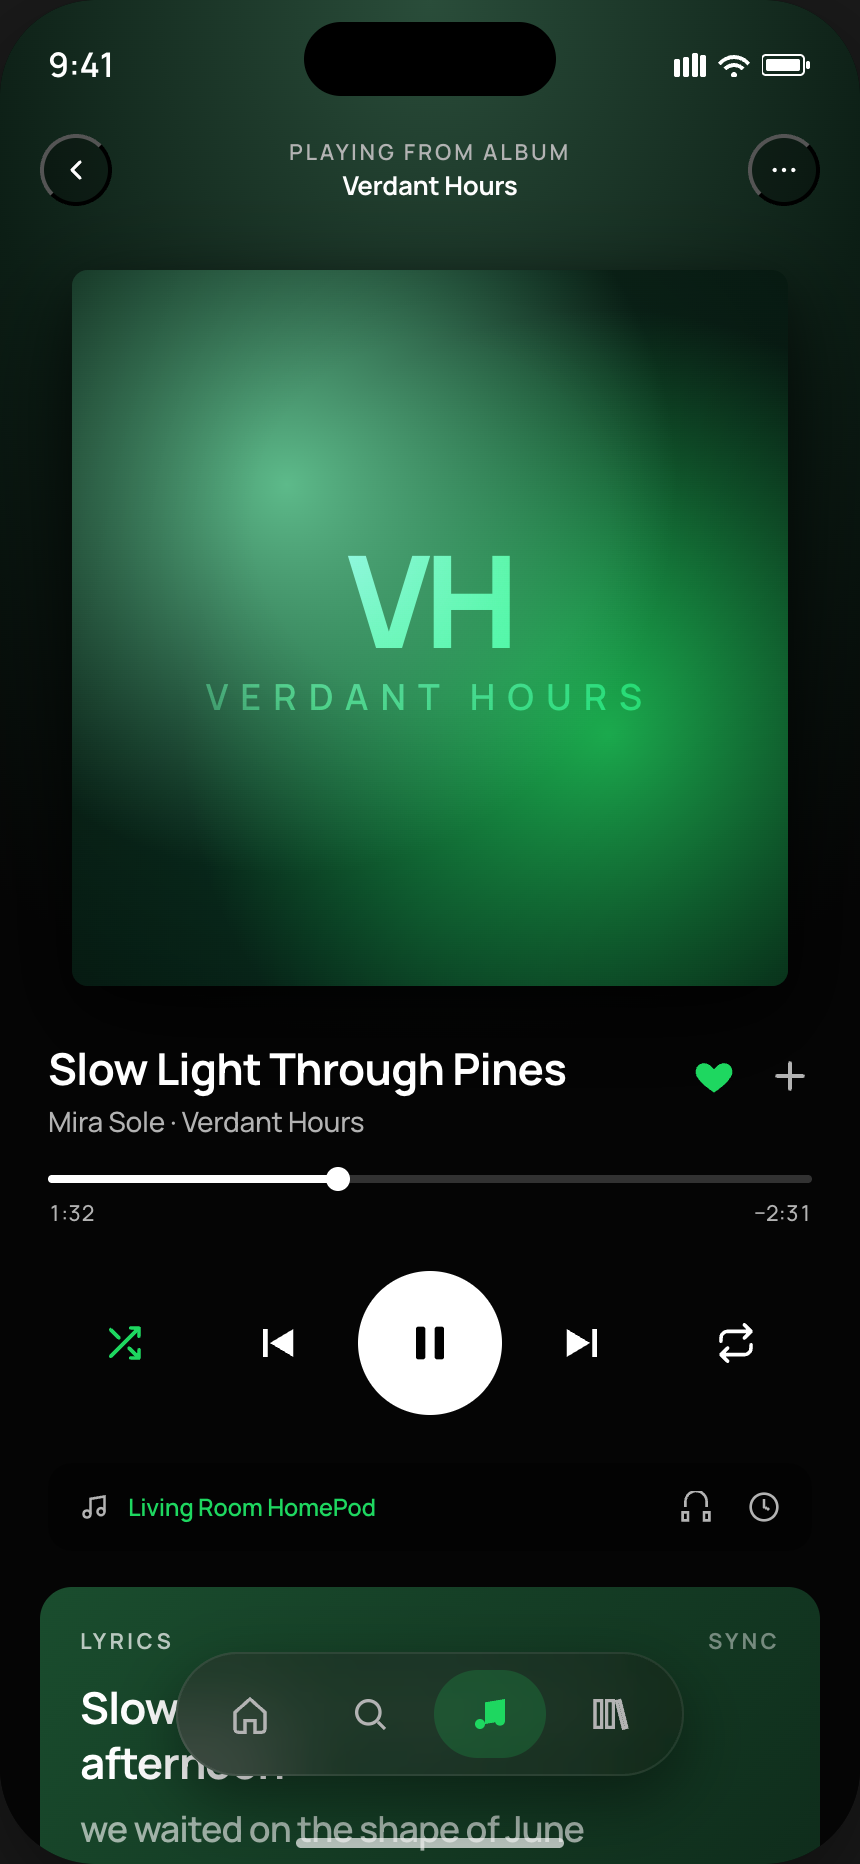
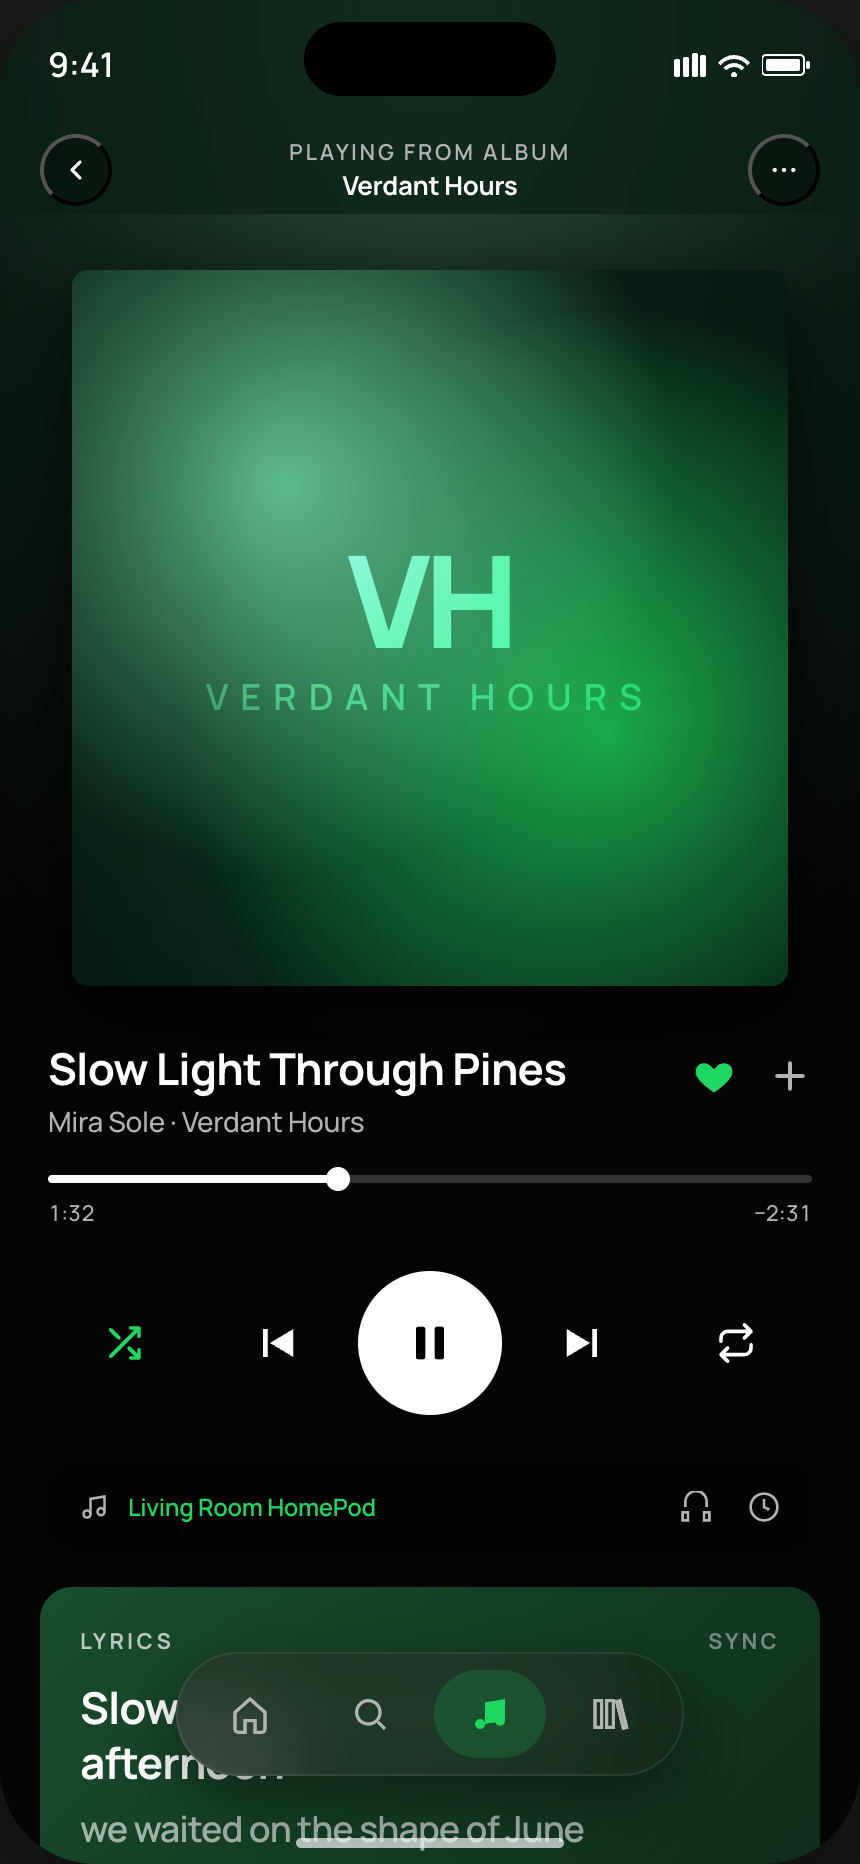
Fix nav-header background to fill behind status bar
Move the 59px status-bar safe area off `.device-content` and onto its
first child, so navigation bars and hero media render their background
to the very top edge of the screen — correct iOS behavior. Previously
sticky `top:0` pinned at the post-padding edge, leaving a visible seam
behind the status bar when the user scrolled.

Scaffold (`create_device_template.py`) now ships
`.device-content { padding-top: 0 }`. Skill rules in SKILL.md and
components/02 + 03 document the three legal first-child patterns
(filled nav, transparent nav, page-header / hero) and forbid the
failure modes (`margin-top: -59px`, half-opacity tints,
`padding-top: 59px` on the container). Existing examples updated to
match.

Changed region(s): [[0.3628, 0.0, 0.6349, 0.0933]]

diff --git a/examples/music-now-playing.html b/examples/music-now-playing.html
@@ -37,14 +37,14 @@
         .status-bar { position: absolute; top: 0; left: 0; right: 0; height: 59px; display: flex; justify-content: space-between; align-items: center; padding: 14px 24px 8px; z-index: 50; pointer-events: none; color: var(--ink); }
         .status-bar-time { font-size: var(--text-md); font-weight: 600; }
         .status-bar-icons { display: flex; gap: 6px; align-items: center; }
-        .device-content { position: absolute; inset: 0; overflow-y: auto; -webkit-overflow-scrolling: touch; padding-top: 59px; padding-bottom: 34px; }
+        .device-content { position: absolute; inset: 0; overflow-y: auto; -webkit-overflow-scrolling: touch; padding-top: 0; padding-bottom: 34px; }
         .device-content::-webkit-scrollbar { display: none; } .device-content { scrollbar-width: none; }
         .home-indicator-area { position: absolute; bottom: 0; left: 0; right: 0; height: 34px; display: flex; justify-content: center; align-items: flex-end; padding-bottom: 8px; pointer-events: none; z-index: 50; }
         .home-indicator { width: 134px; height: 5px; background: var(--ink); border-radius: 3px; opacity: 0.7; }
 
         .ambient { position: absolute; inset: 0; background: radial-gradient(120% 70% at 50% 0%, #2a4d3a 0%, #0c1e15 45%, var(--canvas) 80%); z-index: 0; pointer-events: none; }
 
-        .top-bar { position: relative; z-index: 2; padding: 8px 20px 4px; display: grid; grid-template-columns: 36px 1fr 36px; align-items: center; gap: 12px; }
+        .top-bar { position: sticky; top: 0; z-index: 10; padding: calc(59px + 8px) 20px 4px; display: grid; grid-template-columns: 36px 1fr 36px; align-items: center; gap: 12px; background: rgba(12, 30, 21, 0.72); backdrop-filter: blur(20px) saturate(1.4); -webkit-backdrop-filter: blur(20px) saturate(1.4); }
         .icon-btn { width: 36px; height: 36px; border-radius: 50%; display: grid; place-items: center; color: var(--ink); background: rgba(0,0,0,0.3); }
         .top-meta { text-align: center; line-height: 1.2; }
         .top-meta .label { font-size: 11px; color: var(--ink-3); text-transform: uppercase; letter-spacing: 1.4px; font-weight: 600; }

diff --git a/examples/wellness-breathe.html b/examples/wellness-breathe.html
@@ -41,7 +41,7 @@
         .status-bar { position: absolute; top: 0; left: 0; right: 0; height: 59px; display: flex; justify-content: space-between; align-items: center; padding: 14px 24px 8px; z-index: 50; pointer-events: none; color: var(--ink); }
         .status-bar-time { font-size: var(--text-md); font-weight: 600; }
         .status-bar-icons { display: flex; gap: 6px; align-items: center; }
-        .device-content { position: absolute; inset: 0; overflow-y: auto; -webkit-overflow-scrolling: touch; padding-top: 59px; padding-bottom: 34px; }
+        .device-content { position: absolute; inset: 0; overflow-y: auto; -webkit-overflow-scrolling: touch; padding-top: 0; padding-bottom: 34px; }
         .device-content::-webkit-scrollbar { display: none; } .device-content { scrollbar-width: none; }
         .home-indicator-area { position: absolute; bottom: 0; left: 0; right: 0; height: 34px; display: flex; justify-content: center; align-items: flex-end; padding-bottom: 8px; pointer-events: none; z-index: 50; }
         .home-indicator { width: 134px; height: 5px; background: var(--ink); border-radius: 3px; opacity: 0.7; }
@@ -57,9 +57,12 @@
 
         /* Top */
         .top {
-            position: relative; z-index: 2;
-            padding: 12px 24px 8px;
+            position: sticky; top: 0; z-index: 10;
+            padding: calc(59px + 12px) 24px 8px;
             display: flex; justify-content: space-between; align-items: center;
+            background: rgba(251, 248, 243, 0.72);
+            backdrop-filter: blur(20px) saturate(1.4);
+            -webkit-backdrop-filter: blur(20px) saturate(1.4);
         }
         .top-icon {
             width: 40px; height: 40px; border-radius: 50%;

diff --git a/examples/productivity-today.html b/examples/productivity-today.html
@@ -71,14 +71,16 @@
         .status-bar { position: absolute; top: 0; left: 0; right: 0; height: 59px; display: flex; justify-content: space-between; align-items: center; padding: 14px 24px 8px; z-index: 50; pointer-events: none; color: var(--ink); }
         .status-bar-time { font-size: var(--text-md); font-weight: 600; }
         .status-bar-icons { display: flex; gap: 6px; align-items: center; }
-        .device-content { position: absolute; inset: 0; overflow-y: auto; -webkit-overflow-scrolling: touch; padding-top: 59px; padding-bottom: 34px; }
+        .device-content { position: absolute; inset: 0; overflow-y: auto; -webkit-overflow-scrolling: touch; padding-top: 0; padding-bottom: 34px; }
         .device-content::-webkit-scrollbar { display: none; } .device-content { scrollbar-width: none; }
         .home-indicator-area { position: absolute; bottom: 0; left: 0; right: 0; height: 34px; display: flex; justify-content: center; align-items: flex-end; padding-bottom: 8px; pointer-events: none; z-index: 50; }
         .home-indicator { width: 134px; height: 5px; background: var(--ink); border-radius: 3px; opacity: 0.6; }
 
         /* === Screen === */
         .header {
-            padding: 16px 20px 18px;
+            position: sticky; top: 0; z-index: 10;
+            background: var(--canvas);
+            padding: calc(59px + 16px) 20px 18px;
             display: flex; align-items: center; justify-content: space-between;
         }
         .workspace {

diff --git a/examples/mail-edit-mode.html b/examples/mail-edit-mode.html
@@ -97,7 +97,7 @@
             position: absolute; inset: 0;
             overflow-y: auto;
             -webkit-overflow-scrolling: touch;
-            padding-top: 59px;
+            padding-top: 0;       /* nav-header absorbs the 59px status-bar offset */
             padding-bottom: 34px;
         }
         .device-content::-webkit-scrollbar { display: none; }
@@ -117,8 +117,10 @@
 
         /* === Nav header (Mail in edit mode) === */
         .nav-header {
+            position: sticky; top: 0; z-index: 10;
+            background: var(--color-bg);
             display: flex; align-items: center; justify-content: space-between;
-            padding: var(--space-2) var(--space-4) var(--space-3);
+            padding: calc(59px + var(--space-2)) var(--space-4) var(--space-3);
             min-height: 44px;
         }
         .nav-btn {

diff --git a/examples/food-recipe.html b/examples/food-recipe.html
@@ -54,7 +54,6 @@
                 radial-gradient(circle at 50% 90%, #6b3a1a 0%, transparent 60%),
                 linear-gradient(160deg, #c9772e 0%, #4d2810 100%);
             color: var(--white);
-            overflow: hidden;
         }
         .hero::before {
             content: ''; position: absolute; inset: 0;
@@ -67,7 +66,7 @@
             background-size: 3px 3px;
         }
         .hero-nav {
-            position: absolute; top: 59px; left: 0; right: 0; padding: 12px 20px;
+            position: sticky; top: 59px; padding: 12px 20px;
             display: flex; justify-content: space-between; align-items: center;
             z-index: 4;
         }

diff --git a/skills/make-mobile-design/scripts/create_device_template.py b/skills/make-mobile-design/scripts/create_device_template.py
@@ -117,13 +117,20 @@ TEMPLATE = Template("""<!DOCTYPE html>
            Any floating overlay placed over .device-content (custom tab bar, FAB,
            banner, sheet handle) MUST set `pointer-events: none` on its wrapper
            and `pointer-events: auto` on its interactive children, otherwise the
-           overlay swallows wheel/touch and the screen stops scrolling under it. */
+           overlay swallows wheel/touch and the screen stops scrolling under it.
+
+           NOTE: padding-top is intentionally 0 — the 59px status-bar safe area
+           is the responsibility of the FIRST element inside .device-content,
+           NOT this container. This is so navigation bars (.nav-header, glass
+           top bars, hero images) can render their background behind the status
+           bar to the very top edge of the screen, which is the correct iOS
+           behavior. See components/03-navigation.md §3a for the pattern. */
         .device-content {
             position: absolute;
             inset: 0;
             overflow-y: auto;
             -webkit-overflow-scrolling: touch;
-            padding-top: 59px;    /* space for status bar */
+            padding-top: 0;       /* status-bar offset belongs on first child */
             padding-bottom: 34px; /* space for home indicator */
         }
         /* Block layout, NOT flex — flex-direction:column with overflow:auto

diff --git a/skills/make-mobile-design/SKILL.md b/skills/make-mobile-design/SKILL.md
@@ -189,6 +189,7 @@ Before delivering an iOS mockup, verify:
 - [ ] Animations respect `prefers-reduced-motion`.
 - [ ] Screen was generated by running `create_device_template.py`; content lives inside `.device-content`; status bar is pinned and does not scroll with content.
 - [ ] Any floating overlay over `.device-content` (custom tab bar, FAB, banner) uses `pointer-events: none` on the wrapper with `pointer-events: auto` on interactive children; the screen scrolls anywhere inside the device frame, including over the overlay.
+- [ ] `.device-content { padding-top: 0 }` (scaffold default — never overridden to 59px). The first child of `.device-content` owns the 59px status-bar safe area via its own `padding-top: calc(59px + …)`. Verified by scrolling — top nav (if any) stays pinned at y=0 and its background fills behind the status bar, OR for transparent/full-bleed first child, scrolled content reaches the top edge.
 
 For Android mockups or platform-agnostic prototypes, these rules are advisory rather than mandatory -- but the no-purple guideline still applies unless the user explicitly requests purple.
 
@@ -285,6 +286,8 @@ Do NOT also include the older `.tab-bar` component from `03-navigation.md` on th
 - Do NOT redesign the device chrome — leave the island, status bar, and home indicator markup and styles as-is.
 - Do NOT add a custom floating overlay (tab bar, FAB, banner, sheet handle) over `.device-content` without `pointer-events: none` on the overlay wrapper and `pointer-events: auto` on its interactive children. Overlays that are *siblings* of `.device-content` swallow scroll/touch on their footprint and the screen feels unscrollable. The `add_tabbar.py` output already does this — match the pattern for any hand-written overlay.
 - Do NOT change `.device-content` to `display: flex; flex-direction: column`. With a fixed-height container and `overflow-y: auto`, flex shrinks every child below its natural size to fit the viewport, so `scrollHeight` collapses to `clientHeight` and the screen stops scrolling entirely. Keep `.device-content` as block layout (the scaffold default).
+- Top navigation bars (`.nav-header` from section 3a, or any custom top bar — back button + title + actions) MUST stay pinned under the status bar while content scrolls. Use `position: sticky; top: 0; z-index: 10` on the nav element, which lives as the first child inside `.device-content`. Do NOT leave a top nav in normal flow — it will scroll off with the content, which is wrong mobile behavior. **Exception:** large-title headers (`.page-header`, section 3b) are intentionally part of the scroll region per HIG and must NOT be made sticky.
+- **The 59px status-bar safe area belongs on the FIRST CHILD of `.device-content`, never on `.device-content` itself.** The scaffold sets `.device-content { padding-top: 0 }` so navigation bars and hero media can render their background behind the status bar to the top edge of the screen — correct iOS behavior. The first child must absorb the 59px via its own `padding-top`: a `.nav-header` uses `padding-top: calc(59px + var(--space-2))` (background fills behind status bar); a `.page-header` or first content section adds 59px to its top padding; a full-bleed hero/photo bleeds behind the status bar with no padding. Do NOT add `padding-top: 59px` to `.device-content`, do NOT use `margin-top: -59px` on the nav (breaks sticky pinning), and do NOT use half-opacity tints or background-matching tricks. See `components/02-status-bar.md` "Status-bar safe area" and `components/03-navigation.md` §3a / §3a-i.
 
 ### Step 4: Generate the HTML Mockup
 

diff --git a/skills/make-mobile-design/components/03-navigation.md b/skills/make-mobile-design/components/03-navigation.md
@@ -22,11 +22,27 @@
 
 ```css
 /* CSS */
+/* The scaffold gives .device-content padding-top: 0, so the first child
+   of .device-content owns the 59px status-bar safe area. The nav absorbs
+   that offset via its own padding-top, and its background fills the full
+   area behind the status bar to the top edge of the screen. */
 .nav-header {
+    position: sticky;
+    top: 0;
+    z-index: 10;
+    padding: calc(59px + var(--space-2)) var(--space-5) var(--space-2);
+    background: var(--bg-primary, #fff);
     display: flex;
     align-items: center;
-    padding: var(--space-2) var(--space-5);
     gap: var(--space-3);
+}
+
+/* Glass variant — translucent nav over content. The backdrop-filter blurs
+   whatever scrolls under the nav, INCLUDING behind the status bar. */
+.nav-header.glass {
+    background: rgba(255, 255, 255, 0.55);
+    backdrop-filter: saturate(180%) blur(20px);
+    -webkit-backdrop-filter: saturate(180%) blur(20px);
 }
 
 .nav-back {
@@ -86,6 +102,28 @@
 }
 ```
 
+**Pinning & top-edge fill:** `.nav-header` is sticky inside `.device-content`, which has `padding-top: 0` (scaffold default). The nav's own `padding-top: calc(59px + var(--space-2))` provides the status-bar safe area, so the nav's background (or `backdrop-filter` for glass) fills behind the status bar to the top edge of the screen. Sticky `top: 0` pins the nav there as content scrolls. Do **not** add `margin-top: -59px`, half-opacity tints, or `padding-top: 59px` on `.device-content` — they all break this pattern.
+
+### 3a-i. Transparent nav (no background fill)
+
+When the screen has a hero image, photo, or media that should bleed all the way to the top of the device, **don't paint a bar at all**. Keep the nav transparent so scrolling content passes behind the buttons.
+
+```css
+/* CSS — transparent variant */
+.nav-header.transparent {
+    position: sticky;
+    top: 0;
+    z-index: 10;
+    padding: calc(59px + var(--space-2)) var(--space-5) var(--space-2);
+    background: transparent;
+    display: flex;
+    align-items: center;
+    gap: var(--space-3);
+}
+```
+
+**When to use:** photo viewers, media-rich detail screens, full-bleed hero headers, map / camera screens. The buttons (`.nav-back`, `.nav-action-btn`) keep their own pill / circle backgrounds so they remain legible against the scrolling content underneath — only the **bar** is transparent. Content scrolls all the way up under the buttons, including behind the status bar. Do **not** use a half-opacity tint as a compromise; either fill (3a) or go fully transparent (3a-i).
+
 ### 3b. Large Title Header (Top-level screens)
 
 ```html
@@ -98,8 +136,11 @@
 
 ```css
 /* CSS */
+/* When .page-header is the FIRST child of .device-content, it owns the
+   59px status-bar safe area — add it to padding-top. If there's a nav-header
+   above it, drop the extra 59px (the nav already absorbed it). */
 .page-header {
-    padding: var(--space-2) var(--space-4) var(--space-3);
+    padding: calc(59px + var(--space-2)) var(--space-4) var(--space-3);
 }
 
 .page-title {

diff --git a/skills/make-mobile-design/components/02-status-bar.md b/skills/make-mobile-design/components/02-status-bar.md
@@ -4,6 +4,18 @@ Always include at the top of every screen.
 
 **Rule:** The status bar is provided by the device-frame scaffold (`scripts/create_device_template.py`) and is pinned with `position:absolute; top:0; z-index:50`. Do not redefine these properties, do not rewrite the status bar HTML/CSS by hand, and never place the status bar inside a scrolling container (e.g. `.device-content`, body-level scroll, or any nested overflow region). The status bar must never scroll with content.
 
+### Status-bar safe area (59px)
+
+The scaffold's `.device-content` has `padding-top: 0`. The 59px reserved for the status bar is the **first child's** responsibility, not the container's. This is so a nav header / glass top bar / hero image can render its background behind the status bar to the very top edge — correct iOS behavior.
+
+Three legal patterns for the first child:
+
+1. **`.nav-header` (back/title/actions)** — uses `padding-top: calc(59px + var(--space-2))`, background fills behind status bar. See §3a in `03-navigation.md`.
+2. **`.page-header` (large title) or any first content section** — add `padding-top: calc(59px + <design-spacing>)` to its existing top padding. The page background continues behind the status bar naturally.
+3. **Full-bleed hero / photo / map** — let the media start at y=0 and bleed behind the status bar. Add a transparent `.nav-header.transparent` on top if you need back/action buttons. See §3a-i in `03-navigation.md`.
+
+Never set `padding-top: 59px` back on `.device-content` — it breaks the top-edge fill for nav headers and reintroduces the status-bar seam bug.
+
 ```html
 <!-- HTML -->
 <div class="status-bar">
